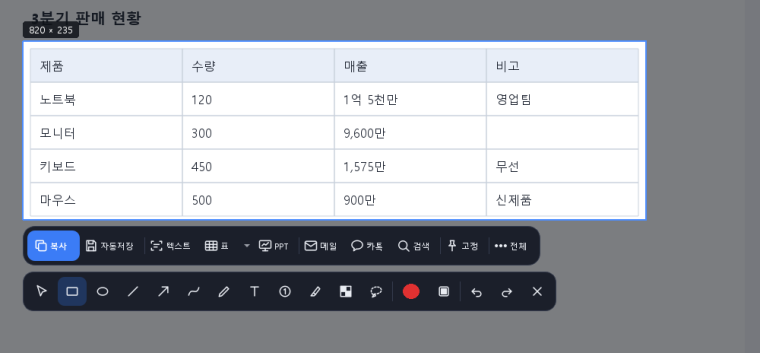
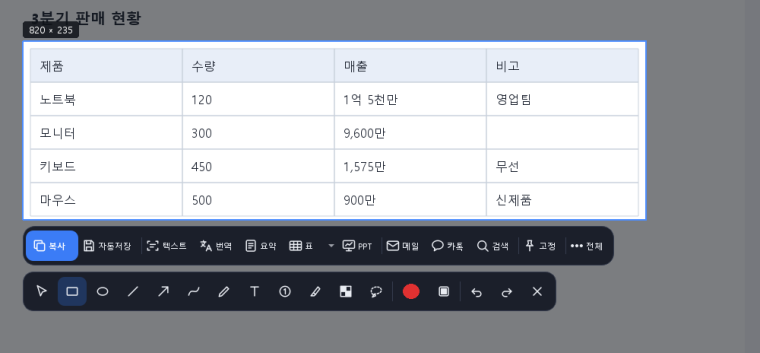
feat: 번역 and 요약 buttons on the capture bar, no text mode needed (v0.8.9)
- Two buttons in the one-row bar read the capture and open the result
  window directly; the capture stays in drawing mode
- In text mode they act on the dragged part, like the text bar's buttons
- No text: a message, no window
- Bar padding tightened so the wider row still fits small screens
- Guide pages 2 and 5, pictures, quick start, test cases

Changed region(s): [[0.0303, 0.6232, 0.8171, 0.779]]

diff --git a/capture_tool/app/side_bar.py b/capture_tool/app/side_bar.py
@@ -11,6 +11,9 @@ ACTIONS = [
     ("copy", "copy", "복사", "클립보드에 복사하고 닫기 (Enter · Ctrl+C) — 영역을 고르면 이미 복사되어 있습니다", "basic"),
     ("autosave", "save", "자동저장", "켜 두면 캡처를 끝낼 때마다 저장 폴더에 파일로도 저장 (누를 때마다 켜기/끄기)", "basic"),
     ("text", "ocr", "텍스트", "이미지 속 글자를 인식해 복사", "basic"),
+    ("translate", "translate", "번역", "캡처 속 글자를 바로 번역 — 텍스트를 먼저 누르지 않아도 됩니다 "
+                                       "(텍스트 모드에서 드래그한 부분이 있으면 그 부분만)", "basic"),
+    ("summarize", "summary", "요약", "캡처 속 글자를 바로 요약 — 텍스트를 먼저 누르지 않아도 됩니다", "basic"),
     ("table", "table", "표", "캡처 속 표를 칸 그대로 복사 — 엑셀·PowerPoint에 붙이면 고칠 수 있는 표", "basic"),
     ("ppt", "ppt", "PPT", "캡처한 그대로 PowerPoint에 넣기 — 그림(그린 것 포함), 텍스트 모드에서는 글자", "basic"),
     ("mail", "mail", "메일", "메일로 보내기 — 받는 사람을 고르면 네이버·Gmail 등의 쓰기 화면이 열리고, 도우미 창으로 붙여 넣기 "
@@ -33,11 +36,11 @@ ACTIONS = [
 
 INK = "#E9ECF2"                  # icon and label colour on the dark bar
 # groups shown with a thin divider between them in the one-row bar
-GROUPS = [("copy", "autosave"), ("text", "table", "ppt"), ("mail", "kakao", "search"), ("pin",), ("more",)]
+GROUPS = [("copy", "autosave"), ("text", "translate", "summarize", "table", "ppt"), ("mail", "kakao", "search"), ("pin",), ("more",)]
 
 STYLE = """
 QWidget#sidebar { background: #1B1F2A; border: 1px solid #353C4E; border-radius: 16px; }
-QToolButton { border: none; border-radius: 10px; color: #E9ECF2; font-size: 11px; padding: 4px 1px; }
+QToolButton { border: none; border-radius: 10px; color: #E9ECF2; font-size: 11px; padding: 4px 0px; }
 QToolButton:hover { background: #2D3446; color: #FFFFFF; }
 QToolButton:pressed { background: #384158; }
 QToolButton#primary { background: #3B7CF6; color: #FFFFFF; font-weight: 600; padding: 4px 6px; }
@@ -69,7 +72,7 @@ class SideBar(QWidget):
         self.setAttribute(Qt.WA_StyledBackground, True)
         self.setStyleSheet(STYLE)
         self._grid = QGridLayout(self)
-        self._grid.setContentsMargins(6, 6, 6, 6)
+        self._grid.setContentsMargins(4, 6, 4, 6)
         self._grid.setHorizontalSpacing(2)
         self._grid.setVerticalSpacing(4)
         self._extra = QWidget(self)               # second row: its own spacing, not the first row's columns

diff --git a/capture_tool/app/controller.py b/capture_tool/app/controller.py
@@ -536,6 +536,8 @@ class Controller(QObject):
             getattr(self.session.document, name)()
             if self.active_overlay:
                 self.active_overlay.update()
+        elif name in ("translate", "summarize"):
+            self._ai_from_capture(name)
         elif name == "text" and self.mode != "text":
             self._start_text_mode()
         elif name == "ppt":
@@ -1130,7 +1132,24 @@ class Controller(QObject):
             ov.setCursor(Qt.BusyCursor)
             QThreadPool.globalInstance().start(_Job(work, self._text_ready))
 
+    def _ai_from_capture(self, kind: str) -> None:
+        """번역 / 요약 pressed on the capture's bar: read the capture and show the result -
+        without going through text mode. In text mode: what is selected there."""
+        ov = self.active_overlay
+        if self.session.state is not State.EDITING or ov is None:
+            return
+        if ov.ocr_lines is not None:                  # text mode is open: same as its own buttons
+            self.on_ocr_action(kind)
+            return
+        self._text_then = kind
+        self.notify("글자를 읽는 중입니다…")
+        self._start_text_mode()
+
     def _on_text_ready(self, result) -> None:
+        then, self._text_then = getattr(self, "_text_then", None), None
+        if then is not None:
+            self._ai_after_read(then, result)
+            return
         ov, raw = self._text_ctx
         if self.session.state is not State.EDITING or ov is not self.active_overlay:
             return  # the capture was closed while recognizing
@@ -1151,6 +1170,20 @@ class Controller(QObject):
         self._copy_text(lines, self._text_grid, drag_hint=True)
         ov.enter_ocr_mode(lines, table=bool(self._text_table))
         self._preload_ai(full_text(lines))
+
+    def _ai_after_read(self, kind: str, result) -> None:
+        ov, _ = self._text_ctx
+        if self.session.state is not State.EDITING or ov is not self.active_overlay:
+            return  # the capture was closed while recognizing
+        ov.setCursor(Qt.ArrowCursor if ov.tool == "select" else Qt.CrossCursor)
+        if isinstance(result, Exception):
+            self.notify(f"인식 중 오류가 발생했습니다: {result}")
+            return
+        lines, err = result
+        if err or not lines:
+            self.notify(err or "텍스트를 찾지 못했습니다. 글자가 있는 부분을 골라 주세요.")
+            return
+        self.ai_request(kind, full_text(lines))
 
     def _preload_ai(self, text: str) -> None:
         """Text mode is open: translate / summary are likely next, so load their models now

diff --git a/tests/test_ai_direct.py b/tests/test_ai_direct.py
@@ -1,0 +1,54 @@
+"""번역 / 요약 straight from the capture's button bar - no need to press 텍스트 first."""
+from capture_tool.app.side_bar import ACTIONS
+from capture_tool.core.geometry import Monitor, Rect
+from tests.test_ai_app import LINES, FakeAi, text_mode
+from tests.test_app import FakeOcr, FakeScreen, _editing, make  # noqa: F401 (fixture)
+
+
+def test_DIRECT_01_buttons_are_in_the_one_row_bar(make):
+    c, ov = _editing(make, ocr=FakeOcr(LINES))
+    rows = {a[0]: a[4] for a in ACTIONS}
+    assert rows["translate"] == rows["summarize"] == "basic"
+    for name in ("translate", "summarize"):
+        assert ov.side_bar.buttons[name].isVisible()
+
+
+def test_DIRECT_02_translate_without_text_mode(make):
+    c, ov = _editing(make, ocr=FakeOcr(LINES))
+    c.ai = FakeAi()
+    ov.side_bar.trigger("translate")
+    win = c.ai_window
+    assert win is not None and win.isVisible() and win.mode == "translate"
+    assert win.result_text().startswith("<ko>Quarterly revenue grew.")
+    assert c.overlays and ov.ocr_lines is None             # capture stays open, still in drawing mode
+    assert ov.toolbar.isVisible()
+
+
+def test_DIRECT_03_summary_without_text_mode(make):
+    c, ov = _editing(make, ocr=FakeOcr(LINES))
+    c.ai = FakeAi()
+    ov.side_bar.trigger("summarize")
+    assert c.ai_window.mode == "summarize" and "매출 증가" in c.ai_window.result_text()
+    assert c.ai.calls[0][0] == "summarize"
+
+
+def test_DIRECT_04_no_text_says_so_and_opens_nothing(make):
+    c, ov = _editing(make, ocr=FakeOcr([]))
+    c.ai = FakeAi()
+    ov.side_bar.trigger("translate")
+    assert c.ai_window is None or not c.ai_window.isVisible()
+    assert "텍스트를 찾지 못했습니다" in c.messages[-1] and not c.ai.calls
+
+
+def test_DIRECT_05_in_text_mode_the_dragged_part_is_used(make):
+    c, ov = text_mode(make)
+    c._last_raw = "담당 010-1234-5678"                    # what a drag over the second line copied
+    ov.side_bar.trigger("translate")
+    assert c.ai.calls[-1][1] == "담당 010-1234-5678"
+
+
+def test_DIRECT_06_bar_still_fits_a_small_screen(make):
+    mon = Monitor(0, Rect(0, 0, 1280, 720), 1.0, True, "A")
+    c, ov = _editing(make, screen=FakeScreen(monitors=(mon,)), ocr=FakeOcr(LINES))
+    g = ov.side_bar.geometry()
+    assert g.x() >= 0 and g.right() < 1280 and ov.side_bar.width() <= 1000

diff --git a/capture_tool/app/guide.py b/capture_tool/app/guide.py
@@ -41,7 +41,8 @@ PAGES = (
          "캡처하면 바로 아래에 버튼이 한 줄로 나옵니다.",
          ("**복사**: 복사하고 캡처 화면을 닫습니다 (Enter, Ctrl+C 도 같음).",
           "**자동저장**: 파랗게 눌려 있으면 캡처할 때마다 저장 폴더에 파일로도 저장됩니다. 누를 때마다 켜고 끕니다.",
-          "**텍스트**: 그림 속 글자를 읽어 복사합니다. **표**: 그림 속 표를 칸 그대로 복사합니다.",
+          "**텍스트**: 그림 속 글자를 읽어 복사합니다. **번역** · **요약**: 그림 속 글자를 바로 번역·요약합니다.",
+          "**표**: 그림 속 표를 칸 그대로 복사합니다.",
           "**PPT**: 파워포인트 새 슬라이드에 넣습니다. **메일** · **카톡** · **검색**: 아래 각 장을 보세요.",
           "**고정**: 캡처를 화면 위에 띄워 둡니다. **전체**: 나머지 버튼(다른 이름 저장 · 도형PPT · 스크롤 · 링크 · 저장 폴더 · 도움말)을 펼칩니다."),
          "버튼 위에 마우스를 잠시 올리면 설명이 나옵니다.",
@@ -66,7 +67,9 @@ PAGES = (
          "그림 속 글자를 글로 옮기고, 번역하거나 요약합니다.",
          ("캡처하고 **텍스트** 를 누르면 글자가 바로 복사됩니다.",
           "일부만 필요하면 그 글자 위를 **끌어서** 고르면 그 부분만 복사됩니다.",
-          "아래 막대의 **번역** 또는 **요약** 을 누르면 결과 창이 뜹니다. 결과 창에서 **복사** · **PPT로** · **표로 복사** 를 고릅니다."),
+          "버튼 줄의 **번역** 또는 **요약** 을 누르면 결과 창이 뜹니다 — **텍스트를 먼저 누르지 않아도 됩니다.**",
+          "일부만 번역·요약하려면 **텍스트** 를 누르고 그 글자를 끌어서 고른 뒤 **번역** · **요약** 을 누릅니다.",
+          "결과 창에서 **복사** · **PPT로** · **표로 복사** 를 고릅니다."),
          "번역·요약은 기본으로 이 PC 안에서만 처리되어 글이 밖으로 나가지 않습니다."),
     Page("6. 파워포인트로 보내기",
          "",

diff --git a/tests/test_action_bar.py b/tests/test_action_bar.py
@@ -8,7 +8,7 @@ import pytest
 from capture_tool.core.geometry import Rect, layout_action_bars
 from tests.test_app import drag, make  # noqa: F401 (fixture)
 
-BASIC = ["copy", "autosave", "text", "table", "ppt", "mail", "kakao", "search", "pin", "more"]
+BASIC = ["copy", "autosave", "text", "translate", "summarize", "table", "ppt", "mail", "kakao", "search", "pin", "more"]
 
 
 def selected(make, a=(100, 100), b=(400, 300), **kw):
@@ -28,7 +28,8 @@ def test_BAR_01_one_row_right_under_the_capture(make):
     sb = ov.side_bar
     g = sb.geometry()
     assert sb.isVisible() and g.width() > g.height() * 3
-    assert g.top() == 300 + 8 and g.left() == 100
+    assert g.top() == 300 + 8
+    assert g.left() == min(100, 800 - g.width()) >= 0      # at the capture's left edge, kept on the screen
     assert visible(sb) == BASIC
     tb = ov.toolbar.geometry()
     assert not tb.intersects(g)

diff --git a/capture_tool/app/icons.py b/capture_tool/app/icons.py
@@ -20,6 +20,9 @@ _P = {
               '<rect x="4" y="4" width="8" height="8" fill="{c}"/><rect x="12" y="12" width="8" height="8" fill="{c}"/>',
     "lasso": '<path d="M7 17C3 14 3 8 8 6s11-1 12 3-4 7-9 7" stroke-dasharray="2.5 2.5"/><path d="M9 16l-3 5 5-2z"/>',
     "fill": '<rect x="5" y="5" width="14" height="14" rx="2"/><rect x="8" y="8" width="8" height="8" fill="{c}"/>',
+    "translate": '<path d="M4 6h8M8 4v2M10.5 6c-.8 3.2-3 5.8-6 7.2M6 9c1 2 2.6 3.4 4.6 4.2"/>'
+                 '<path d="M12.5 20l4-9 4 9M14 17h5"/>',
+    "summary": '<rect x="5" y="3.5" width="14" height="17" rx="2"/><path d="M8.5 8.5h7M8.5 12h7M8.5 15.5h4"/>',
     "ocr": '<path d="M4 8V5h3M17 5h3v3M20 16v3h-3M7 19H4v-3M8 10h8M8 14h5"/>',
     "shapes": '<rect x="3" y="11" width="8" height="8"/><circle cx="16" cy="8" r="4"/>',
     "undo": '<path d="M9 8L5 12l4 4M5 12h10a4 4 0 010 8h-3"/>',

diff --git a/tests/test_app.py b/tests/test_app.py
@@ -543,8 +543,8 @@ def test_APP_31_side_bar_next_to_selection(make):
     assert sb.isVisible()
     g = sb.geometry()
     # v0.7: one row right under the capture (was a column to its right)
-    assert g.left() == 100 and g.top() == 308 and g.right() <= 800
-    assert list(sb.buttons) == ["copy", "autosave", "text", "table", "ppt", "mail", "kakao", "search", "pin", "more",
+    assert g.left() == min(100, 800 - g.width()) >= 0 and g.top() == 308 and g.right() <= 800
+    assert list(sb.buttons) == ["copy", "autosave", "text", "translate", "summarize", "table", "ppt", "mail", "kakao", "search", "pin", "more",
                                 "save_as", "ppt_shapes", "scroll", "link", "open_folder", "help"]
     assert sb.columns == 0 and sb.height() <= 60
 

diff --git a/tests/test_table_capture.py b/tests/test_table_capture.py
@@ -242,7 +242,8 @@ def test_TCAP_17_side_bar_has_a_table_button(make):
     c.start_capture()
     drag(c.overlays[0], (100, 100), (500, 400))
     sb = c.overlays[0].side_bar
-    assert "table" in sb.buttons and list(sb.buttons).index("table") == list(sb.buttons).index("text") + 1
+    order = list(sb.buttons)                               # 텍스트 · 번역 · 요약 · 표: the "read the capture" group
+    assert "table" in sb.buttons and order.index("text") < order.index("table") < order.index("ppt")
 
 
 def test_TCAP_18_table_button_copies_the_table_of_the_capture(make, ocr):

diff --git a/capture_tool/__init__.py b/capture_tool/__init__.py
@@ -1,6 +1,6 @@
 import os as _os
 
-__version__ = "0.8.8"
+__version__ = "0.8.9"
 
 # Must run before numpy is imported anywhere: OpenBLAS/OpenMP otherwise start one worker
 # thread per CPU core with ~24 MB committed memory each (≈750 MB, 23 threads on 32 cores).

diff --git a/docs/QUICK_START.md b/docs/QUICK_START.md
@@ -23,9 +23,10 @@
 
 1. **복사**: 복사하고 캡처 화면을 닫습니다 (Enter, Ctrl+C 도 같음).
 2. **자동저장**: 파랗게 눌려 있으면 캡처할 때마다 저장 폴더에 파일로도 저장됩니다. 누를 때마다 켜고 끕니다.
-3. **텍스트**: 그림 속 글자를 읽어 복사합니다. **표**: 그림 속 표를 칸 그대로 복사합니다.
-4. **PPT**: 파워포인트 새 슬라이드에 넣습니다. **메일** · **카톡** · **검색**: 아래 각 장을 보세요.
-5. **고정**: 캡처를 화면 위에 띄워 둡니다. **전체**: 나머지 버튼(다른 이름 저장 · 도형PPT · 스크롤 · 링크 · 저장 폴더 · 도움말)을 펼칩니다.
+3. **텍스트**: 그림 속 글자를 읽어 복사합니다. **번역** · **요약**: 그림 속 글자를 바로 번역·요약합니다.
+4. **표**: 그림 속 표를 칸 그대로 복사합니다.
+5. **PPT**: 파워포인트 새 슬라이드에 넣습니다. **메일** · **카톡** · **검색**: 아래 각 장을 보세요.
+6. **고정**: 캡처를 화면 위에 띄워 둡니다. **전체**: 나머지 버튼(다른 이름 저장 · 도형PPT · 스크롤 · 링크 · 저장 폴더 · 도움말)을 펼칩니다.
 
 ![전체를 누르면 둘째 줄이 펼쳐집니다 (다시 누르면 기본)](images/guide/bar_full.png)
 
@@ -64,7 +65,9 @@
 
 1. 캡처하고 **텍스트** 를 누르면 글자가 바로 복사됩니다.
 2. 일부만 필요하면 그 글자 위를 **끌어서** 고르면 그 부분만 복사됩니다.
-3. 아래 막대의 **번역** 또는 **요약** 을 누르면 결과 창이 뜹니다. 결과 창에서 **복사** · **PPT로** · **표로 복사** 를 고릅니다.
+3. 버튼 줄의 **번역** 또는 **요약** 을 누르면 결과 창이 뜹니다 — **텍스트를 먼저 누르지 않아도 됩니다.**
+4. 일부만 번역·요약하려면 **텍스트** 를 누르고 그 글자를 끌어서 고른 뒤 **번역** · **요약** 을 누릅니다.
+5. 결과 창에서 **복사** · **PPT로** · **표로 복사** 를 고릅니다.
 
 > 💡 번역·요약은 기본으로 이 PC 안에서만 처리되어 글이 밖으로 나가지 않습니다.
 

diff --git a/docs/test-cases.md b/docs/test-cases.md
@@ -750,6 +750,13 @@
 | REUSE-06~09 | L/X | 아무 그림(한글 이름) 열기, 그림 아님·없음·가짜 png·너무 큼은 거절, 캡처 중이면 대신 열기 | 정확 |
 | REUSE-10~12 | 보안/L | 두 번째 실행의 "open:경로"는 있는 그림 파일만(그 밖·너무 긴 메시지 거절), 보내기 메뉴 설치, 설정 스위치 | 정확 |
 
+## v0.8.9 추가 — 버튼 줄에서 바로 번역·요약
+
+| ID | 분류 | 내용 | 기대 결과 |
+|---|---|---|---|
+| DIRECT-01~03 | L | 번역·요약 버튼이 기본 줄에 보임, 텍스트를 거치지 않고 결과 창(캡처·그리기 상태 유지) | 정확 |
+| DIRECT-04~06 | X/L | 글자가 없으면 안내만, 텍스트 모드에서는 드래그한 부분만, 작은 화면에서도 줄이 화면 안 | 정확 |
+
 ## 수동 체크리스트 (릴리스 전)
 
 - [ ] Win + ~ 로 커서 있는 모니터에 즉시 정지 화면 (모니터 2대, 배율 100% + 150%)

diff --git a/docs/release-notes/v0.8.9.md b/docs/release-notes/v0.8.9.md
@@ -1,0 +1,9 @@
+## 캡처 도구 v0.8.9
+
+### 번역 · 요약을 버튼 줄에서 바로
+- 캡처하면 나오는 버튼 줄에 **번역** · **요약** 버튼이 생겼습니다. 텍스트를 먼저 누르지 않아도 캡처 속 글자를 바로 번역·요약합니다.
+- 일부만 하려면 예전처럼 **텍스트** 를 누르고 글자를 끌어서 고른 뒤 누르면 그 부분만 처리합니다.
+- 글자가 없는 캡처에서는 결과 창을 열지 않고 알려 줍니다.
+
+### 설치 / 업데이트
+아래 **Assets**에서 `CaptureTool-Setup-0.8.9.exe`를 내려받아 실행합니다.
